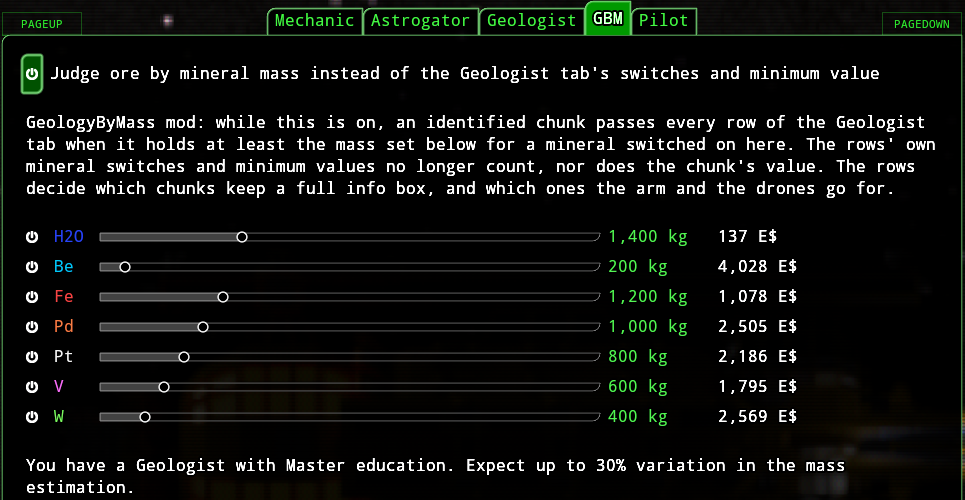
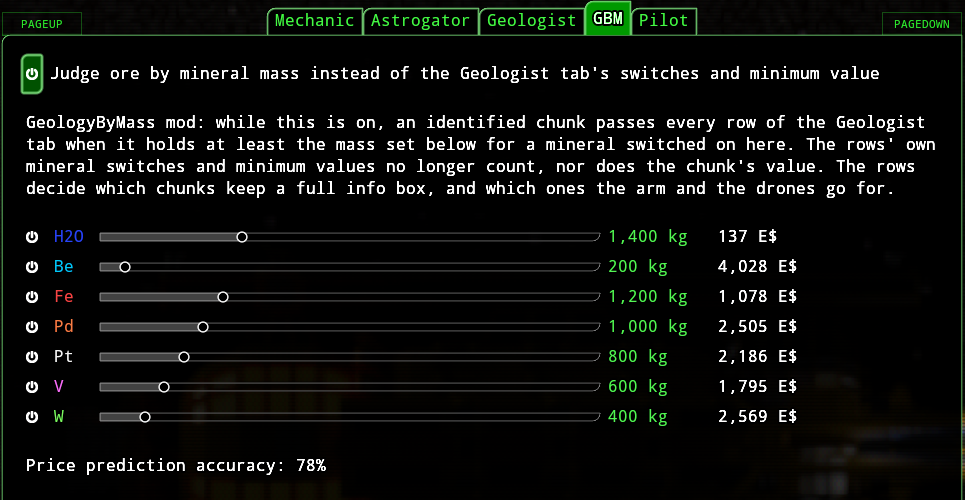
GeologyByMass 2.0.3: the line at the bottom of its OMS tab shows the crew's Price prediction accuracy, the figure the Your Crew screen shows (getCrewStats, morale included, as enceladus/CurrentCrewManagement.gd fillStats formats it), named by the game's own text (CREW_STATS_GEOLOGIST_PREDICTION), so

diff --git a/GeologyByMass/README.md b/GeologyByMass/README.md
@@ -31,10 +31,12 @@ game's developers, check that it also happens without the mod.
   The switches start as the game's own do for a new row: every mineral on but H2O.
 - **What a mass is worth:** after each mineral's least mass, the tab shows what that mass of it is worth at the day's
   price, to compare a mass with the *Minimum value* it replaces.
-- **The geologist aboard:** the masses are the geologist's estimates, so the line at the bottom of the tab says who
-  makes them. With no geologist in the dive crew it warns that the masses will have no effect: without one, no chunk
-  gets an info box, so none is ever identified. Otherwise it names the best one's Education, as their crew entry shows
-  it, and how far off their estimates can be at that level, as a rough guide to set the masses lower or higher.
+- **The geologist aboard:** the masses are the geologist's estimates, so the line at the bottom of the tab says how
+  good they are. With no geologist in the dive crew it warns that the masses will have no effect: without one, no chunk
+  gets an info box, so none is ever identified. Otherwise it shows the crew's *Price prediction accuracy*, the figure
+  the Your Crew screen shows, with the game's own words for it. The info boxes' masses come from the same figure, off
+  by up to 100 % less it, so it is a guide to set the masses lower or higher. The game already shows that figure, so
+  the mod shows it as it is rather than working out one of its own.
 - **The overridden controls disabled:** while the switch is on, the Geologist tab disables and dims the mineral
   switches and the *Minimum value* of the rows the mod judges, since they no longer count, as the game dims a switch a
   row can't use. They stay in place, with their values; switched off, they work again, as they were.
@@ -110,21 +112,21 @@ game's developers, check that it also happens without the mod.
   shows them on hover and on focus, and each mineral switch gets one of its own. A grid of four columns, one row per
   mineral: the switch, the name, the least mass slider and what that mass is worth at the day's price
   (`CurrentGame.getMineralMarketPricePerKg`, as the info box prices a chunk, shown as `VALUE_FORMAT`), which follows
-  its slider. Under it, the line on the geologist aboard (`_geologistLine()`): among the dive crew
-  (`CurrentGame.isCrewMemberActive`, as `getCrewStats` counts it), the geologist (`GAME_GEOLOGIST`) with the highest
-  talent; with none, `NO_GEOLOGIST`; else `GEOLOGIST` with their Education level (`CurrentGame.translateLevel` of their
-  talent among `talentLevels`, as their crew entry shows it) and the most error the boxes' masses have at that level,
-  as `PERCENT_FORMAT`: the info box's error is within ±(1 - `CREW_STATS_GEOLOGIST_PREDICTION`) (`MineralMark.gd`
-  `_ready`), and the game's own `deriveStats`, run on `makeEmptyStats()` with the level's lowest talent, gives it, so
-  no formula is copied. Morale, which also moves the error (`getCrewStats`), is left out: the line is a hint, at the
-  level the player sees. `menu/TabsWithGamepadControl.gd` focuses the switch at the top when the tab is chosen. The
-  D-pad's way from there (`_linkFocus()`, set as `hud/SystemMineralList.gd` `adjustFocus` sets the Geologist tab's):
-  down to the first mineral's switch; up and down a column, the switches or the sliders' values, in the rows' order,
-  the first row's leading back up to the switch at the top; left and right between a row's switch and its slider's
-  value (`focus_neighbour_*`). At the ends and the outer sides a control is its own neighbour, so the focus never
-  leaves the tab, and once A turns a value into its bar, left and right are the bar's. The values are filled in when
-  the tab enters the tree and whenever it shows, only where they differ, so opening it stores nothing; the worths and
-  the geologist's line follow the day's prices and the crew each time.
+  its slider. Under it, the line on the geologist aboard (`_geologistLine()`): with no geologist (`GAME_GEOLOGIST`) in
+  the dive crew (`CurrentGame.getCrewNumberWithRole`), `NO_GEOLOGIST`; else the crew's Price prediction accuracy as the
+  Your Crew screen shows it (`enceladus/CurrentCrewManagement.gd` `fillStats`): the stat `GAME_PREDICTION` of
+  `CurrentGame.getCrewStats()` (the dive crew's best talent, morale included), times 100, as `PREDICTION_FORMAT`, the
+  format of that screen's `GeologistPredictionValue` (`enceladus/Crew.tscn`), after the game's own text for its name,
+  the same key, joined by `STAT_FORMAT`. So the line comes translated in every language the game has. The info box's
+  mass error comes from the same stat: within ±(1 - the stat) (`hud/MineralMark.gd` `_ready`,
+  `CurrentGame.getGeologistAccurancy`). `menu/TabsWithGamepadControl.gd` focuses the switch at the top when the tab is
+  chosen. The D-pad's way from there (`_linkFocus()`, set as `hud/SystemMineralList.gd` `adjustFocus` sets the
+  Geologist tab's): down to the first mineral's switch; up and down a column, the switches or the sliders' values, in
+  the rows' order, the first row's leading back up to the switch at the top; left and right between a row's switch and
+  its slider's value (`focus_neighbour_*`). At the ends and the outer sides a control is its own neighbour, so the
+  focus never leaves the tab, and once A turns a value into its bar, left and right are the bar's. The values are
+  filled in when the tab enters the tree and whenever it shows, only where they differ, so opening it stores nothing;
+  the worths and the geologist's line follow the day's prices and the crew each time.
 - **The overridden controls disabled** (`GeologistTab.gd`): the list builds a row per system in `updateSystems`: a
   mineral switch per mineral (`hud/components/MineralSystemToggle.tscn`, whose `toggled` reaches the list's `toggle`
   with the row's system bound) and a Minimum value control at the end (`hud/components/PriceLabel.tscn`), which it
@@ -186,9 +188,9 @@ game's developers, check that it also happens without the mod.
   compared with the game's own script where the game decides; the tab with the game's `Hud.gd`, `OMS.gd`,
   `TabsWithGamepadControl.gd`, `PriceLabel.gd`, `RepeatingHSlider.gd`, `MineralLabel.gd`, `MineralSystemToggle.gd` and
   `PlaySoundsOnTheseButtons.gd`, an OMS built as its scene nests the tabs, and stubs of the ship and of `CurrentGame`,
-  with the D-pad's way through the tab and the line on the geologist for every Education level; the Geologist tab with
-  the game's `SystemMineralList.gd` in that OMS, with rows for the HUD, an arm and a cargo container's dock. The real
-  check is playing the game.
+  with the D-pad's way through the tab and the line on the geologist for every Education level and with morale; the
+  Geologist tab with the game's `SystemMineralList.gd` in that OMS, with rows for the HUD, an arm and a cargo
+  container's dock. The real check is playing the game.
 
 ## Install
 1. In the game folder (next to `Delta-V.exe`), create a folder named `mods`.

diff --git a/_tests/README.md b/_tests/README.md
@@ -88,7 +88,9 @@ copied. For TurretLockableFacing and WeaponMaxPowerSwitch: the OMS Mechanic tab'
 the game's market code: the prices drawn from a save's seed and moved by the trades in its log (`state.logs`, which
 `logEvent` keeps as the game keeps it where a suite gives the state one), the stored minerals, and the price chart's
 prediction error; and the game's crew levels (`translateLevel`), who is in the dive crew (`isCrewMemberActive`) and
-the one derived stat a mod reads, the geologist's Price prediction accuracy (`deriveStats`); and the
+on leave (`isCrewOnLeave`), the crew stats (`getCrewStats`, without the game's cache: the best talent and experience
+per occupation, with morale) and the one derived stat a mod reads, the geologist's Price prediction accuracy
+(`deriveStats`); and the
 game's `getMoney`, with the insurance where asked (the Repairs screen's Replace); and, for ShipSaleAdvisor and
 ShipRepairAdvisor, the game's `changeMoney` with the insurance paying first where asked, the stored ships' instances
 (`ownedShipInstances`, `removeOwnedShipByHash`) and their lock (`shipMutex`), a repair limit a suite sets
@@ -289,8 +291,9 @@ WeaponMaxPowerSwitch.
   game's `SystemMineralList.gd` (with the mod, its extension) added to that OMS's Geologist tab, where the game nests
   it, building its rows on the stub ship's `systemsChanged` (`getSystems`): the HUD itself, and stubs
   (`harness/geology_system.gd`) of an arm and of a cargo container's dock (`onlyMinerals`). The line on the geologist
-  reads the crew from the `CurrentGame` stub's `state.crew`, with the game's `isCrewMemberActive`, `translateLevel` and
-  the geologist's line of `deriveStats`. The mod's settings descriptions come from its `Settings.gd`. Checks that the
+  reads the crew from the `CurrentGame` stub's `state.crew`, with the game's `getCrewNumberWithRole`, `getCrewStats`
+  and the geologist's line of `deriveStats`, and names the stat with a test translation of the game's key for it. The
+  mod's settings descriptions come from its `Settings.gd`. Checks that the
   tab comes right after the Geologist tab, titled by its key, once however often the OMS is built, and that opening it
   stores nothing; its switch, with its label at the mod's spacing (once laid out); a grid of four columns, one row per
   mineral of the market, H2O too, in the Geologist tab's order: the mineral's switch (the Geologist tab's, showing the
@@ -299,8 +302,9 @@ WeaponMaxPowerSwitch.
   and what that mass is worth at the day's price; the switches and the sliders store what they show, the worth follows
   its slider, and the day's price each time the tab shows; the switch dims the rows; choosing the tab focuses the
   switch. The line under the grid: the warning with nobody aboard, and with only a Pilot, a Geologist not in the dive
-  crew or one on leave; a Geologist's Education level and the most error the game's estimates have at that level, for
-  every level (found by trying talents across it); the best Geologist in the dive crew among several; brought up to
+  crew or one on leave; a Geologist aboard, the crew's Price prediction accuracy as Your Crew shows it, named by the
+  game's text, for talents across every Education level; bad morale lowering it and good morale raising it, as on Your
+  Crew; the best Geologist in the dive crew among several; brought up to
   date each time the tab shows. A HUD without mineral targeting gets no tab. The HUD hands every chunk to its ship with
   its own row, the switch on. The rule, with the HUD's row: off, the game decides; on, below, at and above a mineral's
   least mass; H2O, switched off on the tab at first, refused however much, even in a row with it; switched on, passing
@@ -1091,7 +1095,7 @@ WeaponMaxPowerSwitch.
   WeaponMaxPowerSwitch too, in both load orders; 1 control check with `-Mods @()`),
   `boot` 5 (3 control checks with `-Mods @()`), `lidar` 40 (3 control checks with `-Mods @()`), `hud` 13 (the same with
   LidarContactCallout too; 3 control checks with `-Mods @()`), `crew` 167 (171 with CrewPerfectSort too, in both load
-  orders; the same 167 with DealerNotifier too; 3 control checks with `-Mods @()`), `geology` 95 (the same with
+  orders; the same 167 with DealerNotifier too; 3 control checks with `-Mods @()`), `geology` 96 (the same with
   DiveSkipTransit too, in both load orders, with LidarContactCallout too, and with WeaponMaxPowerSwitch too, in both;
   5 control checks with `-Mods @()`),
   `fleet` 95 (the same with ShipHighlightTypeAndPrice and ShipSortByTypeAndPrice too, and with ShipSaleAdvisor too, in

diff --git a/_wiki/GeologyByMass.md b/_wiki/GeologyByMass.md
@@ -49,8 +49,9 @@ In the **GBM** tab:
   - its mass, the least kg of it a chunk needs, from 0 kg to 5,000 kg, starting at 0;
   - what that mass is worth at today's price, so you can compare it with a *Minimum value*.
 - At the bottom, a line on your geologist. With none in your dive crew, it gives a warning: no chunk gets an info box
-  then, so the masses have no effect. Otherwise it names the Education of your best one, and how far off their
-  estimates can be: up to 90 % with Self-taught education, 70 % with Basic, 50 % with High and 30 % with Master. Set
+  then, so the masses have no effect. Otherwise it shows your crew's *Price prediction accuracy*, the same figure as on
+  the *Your Crew* tab of the station's *Crew* screen: from 10 % to 90 %, higher with a better educated geologist, and
+  with a happier one. The kg on the info boxes can be off by up to 100 % less that figure: at 60 %, by up to 40 %. Set
   the masses a bit lower or higher to allow for it.
 
 The sliders work like the ones in the *Geologist* tab. While the switch is off the rows are dimmed, but you can still
@@ -99,9 +100,12 @@ GeologyByMass/Settings.gd MIN_MASS.max = 5000 -> 5,000 kg
 GeologyByMass/i18n/en.po GEOLOGYBYMASS_MIN_MASS = "Least mass of this mineral, as your geologist estimates it, for a chunk to pass while its switch is on." -> as your geologist estimates
 GeologyByMass/SettingsUI.gd MASS_FORMAT = "%s " | images/GeologyByMass-settings.png
 GeologyByMass/SettingsUI.gd VALUE_FORMAT = "%s E$" | images/GeologyByMass-settings.png
-GeologyByMass/SettingsUI.gd PERCENT_FORMAT = "%s%%" | images/GeologyByMass-settings.png
-GeologyByMass/i18n/en.po GEOLOGYBYMASS_GEOLOGIST = "You have a Geologist with %s education. Expect up to %s variation in the mass estimation." | images/GeologyByMass-settings.png
+GeologyByMass/SettingsUI.gd STAT_FORMAT = "%s: %s" | images/GeologyByMass-settings.png
+GeologyByMass/SettingsUI.gd PREDICTION_FORMAT = "%.0f%%" | images/GeologyByMass-settings.png
 GeologyByMass/i18n/en.po GEOLOGYBYMASS_NO_GEOLOGIST = "WARNING: No Geologist on board. The values above will have no effect." -> a warning
-game: 90 %, 70 %, 50 % and 30 %, the most error of a geologist's estimates with Self-taught, Basic, High and Master education, morale left out (CurrentGame.gd deriveStats CREW_STATS_GEOLOGIST_PREDICTION at each level's lowest talent, translateLevel; hud/MineralMark.gd _ready)
+game: Price prediction accuracy, the crew stat's name, as the Your Crew tab shows it (i18n/en.po CREW_STATS_GEOLOGIST_PREDICTION; enceladus/Crew.tscn GeologistPredictionLabel), in the settings picture
+game: 10 % to 90 %, the crew's Price prediction accuracy from the least talented geologist to the most, the talent raised by good morale and lowered by bad (CurrentGame.gd deriveStats CREW_STATS_GEOLOGIST_PREDICTION, getCrewStats)
+game: 100 %, the info boxes' kg off by up to 100 % less the Price prediction accuracy (hud/MineralMark.gd _ready, CurrentGame.gd getGeologistAccurancy)
+note: 60 % and 40 %, an example of that rule: change it with it
 note: 200 kg, the least mass of Be and the step of the example in the settings picture (its steps in _shots/shots.psd1, by the game's base prices, CurrentGame.mineralPrices): change it with that
 -->

diff --git a/GeologyByMass/CHANGES.md b/GeologyByMass/CHANGES.md
@@ -1,5 +1,15 @@
 # GeologyByMass - Changes
 
+## 2.0.3
+- The line at the bottom of the mod's OMS tab shows the crew's Price prediction accuracy, the figure the Your Crew
+  screen shows (morale included), with the game's own text for its name, so it comes in the game's language. It used to
+  show the best geologist's Education and the most error the game's estimates have at that level, without morale. The
+  info boxes' mass error comes from that same figure.
+- `SettingsUI.gd`: `GEOLOGIST` and `PERCENT_FORMAT` removed; new `GAME_PREDICTION`, `PREDICTION_FORMAT` and
+  `STAT_FORMAT`; `_geologistLine()` asks the game's `getCrewNumberWithRole` and `getCrewStats`.
+- Text `GEOLOGYBYMASS_GEOLOGIST` removed.
+- README: the line on the geologist.
+
 ## 2.0.2
 - Licensed under the MIT License instead of the GNU GPLv3: the LICENSE in the zip and the README's *About* and
   *Disclaimer* say so.
